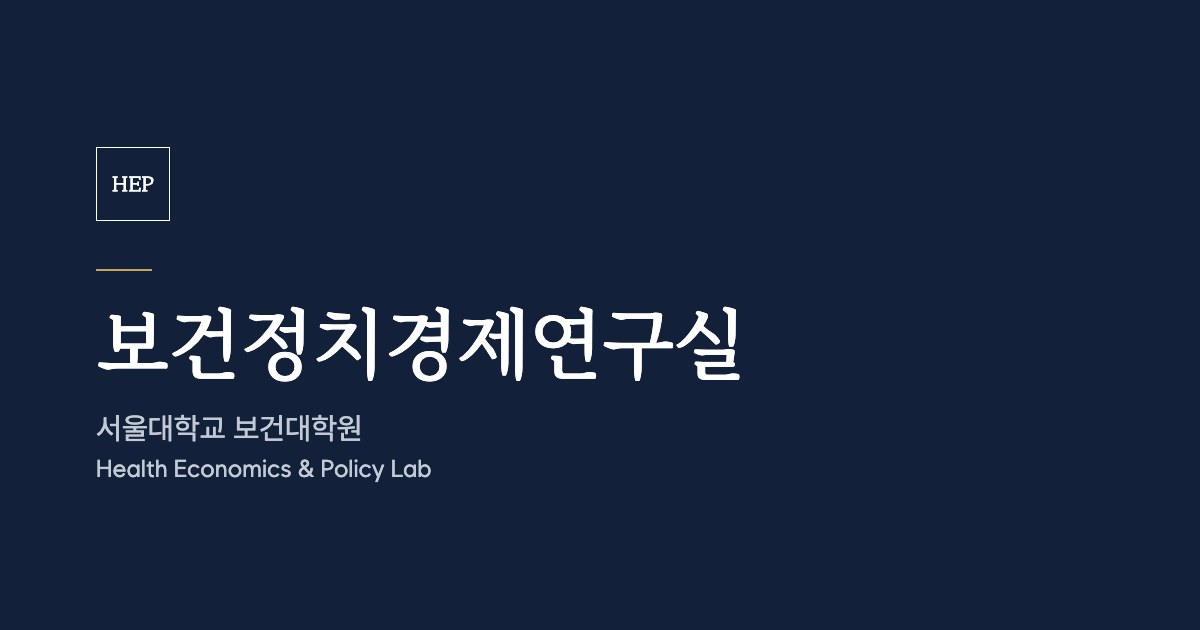
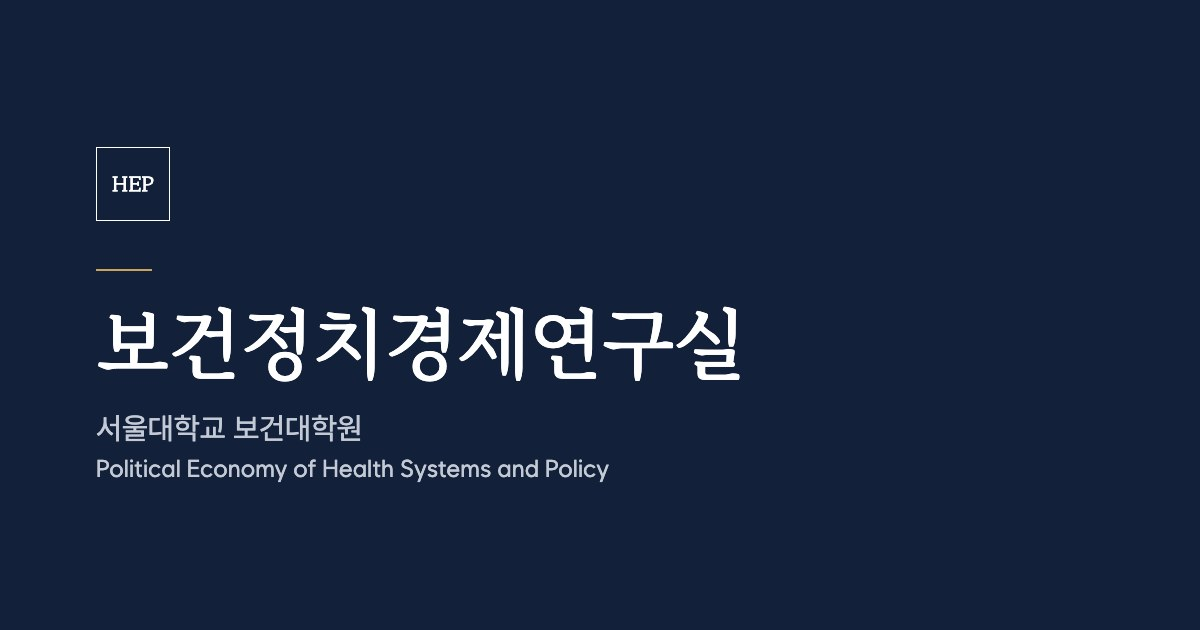
최신 DB(11-18) · 디자인 마감(11-14~19: 4A·5·7) · 옛 4묶음 상단 메뉴 및 EN 제거 반영

Changed region(s): [[0.0617, 0.7238, 0.5242, 0.7841]]

diff --git a/assets/css/site.css b/assets/css/site.css
@@ -118,6 +118,7 @@ time, .num, .cnt, .tbl, .b-meta, .c-meta, .post-meta, .article .meta { font-vari
 .main-inner { padding-bottom: var(--sp-9); }
 .main-inner > .wrap { padding-top: var(--top); }
 .main-inner > .wrap > * { max-width: var(--content-max); }
+.main-inner > .wrap.list:has(.news-list) > .grp { max-width: none; }   /* 소식 목록 오른쪽 끝을 머리 메뉴와 맞춤(2026-11-16 2단계) */
 
 /* ---------------- 첫 화면 사진 슬라이드(교수님이 시안을 고르시기 전이라 V1 값 그대로) */
 .hero { position: relative; height: 780px; color: #fff; overflow: hidden; background: var(--navy-deep); --focus: var(--gold); }
@@ -134,7 +135,7 @@ time, .num, .cnt, .tbl, .b-meta, .c-meta, .post-meta, .article .meta { font-vari
 .kick { font-size: 17px; font-weight: 500; letter-spacing: 0; color: #fff; margin: 0; }
 .hero-h { font-family: var(--display); font-weight: var(--display-weight); font-size: 66px; line-height: 1.25; margin: 18px 0 12px; letter-spacing: -.01em; }
 .hero-p { font-size: 19px; opacity: .92; margin: 0; }
-.hero-s { font-size: 15px; letter-spacing: 0; opacity: .8; margin: 10px 0 0; }
+.hero-s { font-size: 15px; letter-spacing: 0; opacity: .8; margin: 10px 0 0;  text-shadow: 0 1px 3px rgba(0,0,0,.85), 0 0 14px rgba(0,0,0,.55); }   /* 밝은 포장길 위 대비(2026-11-16 2단계) */
 .btn-line { display: inline-flex; gap: 12px; align-items: center; margin-top: 34px; border: 1px solid rgba(255, 255, 255, .7); padding: 13px 26px; font-size: 14px; letter-spacing: 0; }
 .btn-line--latin { letter-spacing: .08em; }   /* 영문 대문자 단추만(LAB INTRODUCTION), 한글 단추는 0 */
 .btn-line:hover { border-color: var(--gold); color: var(--gold-tint-hover); }
@@ -627,7 +628,7 @@ summary:hover .chev, summary:hover .cnt { color: var(--ink); }
   .leaves > li::before { content: ""; position: absolute; left: calc(-1 * var(--gap-r)); top: var(--nm-mid); width: calc(var(--gap-r) - var(--sp-3)); height: 1px; background: var(--line); transform-origin: left; }
   .grp { margin-top: var(--sp-7); }
   .grp-fold + .grp-fold { margin-top: 0; }
-  .t [lang="en"], .pf [lang="en"] { hyphens: auto; }
+  .t [lang="en"] { hyphens: auto; }   /* 관심 분야(.pf)는 낱말 가운데서 끊지 않음(2026-11-16 2단계) */
   .people { grid-template-columns: 1fr; }
   .person { padding: var(--sp-4); gap: var(--sp-4); }
   .person .ph { width: 96px; height: 120px; }
@@ -2409,7 +2410,7 @@ html .g-sent .btn[hidden] { display: none; }
 .bd-count b { color: var(--ink); font-weight: 700; }
 .bd-search { display: flex; align-items: center; gap: var(--sp-2); position: relative; margin: 0; }
 .bd-search > .bd-ic { position: absolute; left: 12px; top: 50%; transform: translateY(-50%); color: var(--sub); pointer-events: none; }
-.bd-search input { width: 320px; height: 44px; padding: 0 12px 0 40px; border: 1px solid var(--field); background: var(--paper); font-size: var(--fs-meta); border-radius: 0; }
+.bd-search input { width: 320px; height: 44px; padding: 0 12px 0 40px; border: 1px solid var(--field); background: var(--paper); font-size: var(--fs-meta); border-radius: 10px; }
 .bd-search input:focus { outline: 2px solid var(--ink); outline-offset: 0; }
 .bd-search input::placeholder { color: var(--sub); }
 .bd-draft { display: flex; flex-wrap: wrap; align-items: baseline; gap: var(--sp-1) var(--sp-3); margin: 0 0 var(--sp-5); padding: var(--sp-3) var(--sp-4); background: var(--tint); font-size: var(--fs-meta); }
@@ -2579,3 +2580,29 @@ a.bd-pg:hover { background: var(--tint); }
   .ev-grid { grid-template-columns: repeat(2, minmax(0, 1fr)); gap: var(--sp-2); }
 }
 @media print { .band--photo { min-height: 0; background: none; } .band--photo .band-sub { color: inherit; } .band--photo .band-bg, .band-search { display: none; } }
+
+/* ---------- 2026-11-19 선택 반영(항목 5 · 항목 7) ---------- */
+/* [항목 5] 내부 본문 4개 화면 구역 가로 구분선 1280px 전체 폭 통일(본문 읽기 폭 36em 유지) */
+.main-inner > .prose > .lead-block,
+.main-inner > .prose > .sec,
+.main-inner > .wrap.list > .grp,
+.main-inner > .wrap.courses { max-width: none; }
+
+/* [항목 7] 내 정보 화살표 · 비활성 단추 명도 대비 보강(AA 4.5:1 이상) */
+.reqcards-arrow,
+.m-way .join-go,
+.m-back-arw { color: var(--gold-deep, #86672f); }
+html .btn[disabled],
+.btn[disabled] { opacity: 1; background: #dfe3eb; color: #464e5d; border-color: #c5ccd8; box-shadow: none; }
+
+/* [항목 7] 모바일 관리 탭 가로 스크롤 + 오른쪽 남색 그라데이션 페이드 */
+@media (max-width: 640px) {
+  .admin-tabs { position: relative; }
+  .admin-tabs ul { flex-wrap: nowrap; overflow-x: auto; padding-right: 40px; scrollbar-width: none; }
+  .admin-tabs ul::-webkit-scrollbar { display: none; }
+  .admin-tabs a { white-space: nowrap; flex: none; }
+  .admin-tabs::after {
+    content: ""; position: absolute; top: 0; right: 0; bottom: 0; width: 44px; pointer-events: none;
+    background: linear-gradient(90deg, rgba(19, 32, 58, 0), rgba(19, 32, 58, .96) 78%);
+  }
+}

diff --git a/assets/js/lab/app.js b/assets/js/lab/app.js
@@ -152,7 +152,7 @@
         // 아이디가 있든 없든 같은 글(10-28 설계서 8절)
         msg.replaceChildren(h('div', { class: 'notice is-error g-err', role: 'alert' },
           h('b', {}, L.errText(err)),
-          h('p', {}, '기존 홈페이지 회원은 예전 아이디 · 비밀번호를 그대로 쓰시면 됩니다. 비밀번호를 잊으셨으면 아래에서 링크를 받으십시오.'),
+          h('p', {}, '기존 홈페이지 회원은 기존 아이디 · 비밀번호를 그대로 쓰시면 됩니다. 비밀번호를 잊으셨으면 아래에서 링크를 받으십시오.'),
           h('div', { class: 'g-acts' },
             who ? h('button', { type: 'button', class: 'btn btn-ghost btn-small', onclick: async function (ev) {
               var b = ev.currentTarget; busy(b, true); var ok = await sendLink(api, who, place); busy(b, false, ok); if (ok) msg.replaceChildren(place);
@@ -167,7 +167,7 @@
     L.append(root, [gatePage([
       h('h2', { class: 'gate-h' }, '로그인'), msg, form,
       // 11-13 연구자: 기존 회원은 재설정 없이 예전 비밀번호 그대로(첫 로그인 때 서버가 새 방식으로 바꿔 저장)
-      h('p', { class: 'g-note' }, '기존 홈페이지 회원은 예전 아이디 · 비밀번호 그대로 로그인합니다.'),
+      h('p', { class: 'g-note' }, '기존 홈페이지 회원은 기존 아이디 · 비밀번호 그대로 로그인합니다.'),
       h('div', { class: 'g-or' }),
       h('div', { class: 'g-row2' },
         linkBtn(JOIN, '회원가입'),

diff --git a/templates/base.html b/templates/base.html
@@ -19,7 +19,7 @@
 <header class="{{ header_class }}">
   <div class="hdr-in">
     <a class="brand" href="{{ home }}">
-      <svg viewBox="0 0 48 48" width="46" height="46" aria-hidden="true"><rect x=".7" y=".7" width="46.6" height="46.6" fill="none" stroke="currentColor" stroke-width="1.2"/><text x="24" y="30.5" text-anchor="middle" font-family="MaruBuri, serif" font-weight="600" font-size="15" letter-spacing="1" fill="currentColor">HEP</text></svg>
+      <svg viewBox="0 0 48 48" width="46" height="46" aria-hidden="true"><rect x="1" y="1" width="46" height="46" fill="none" stroke="#c9a45c" stroke-width="1.4"/><path d="M12 36 V16 L24 10 L36 16 V36" fill="none" stroke="#c9a45c" stroke-width="1.8" stroke-linejoin="miter"/><path d="M18 36 V22 H30 V36" fill="none" stroke="currentColor" stroke-width="1.5"/><line x1="8" y1="36" x2="40" y2="36" stroke="#c9a45c" stroke-width="1.4"/></svg>
       <span><b>{{ brand_name }}</b><small>{{ brand_en }}</small></span>
     </a>
     <button type="button" class="menu-btn" aria-expanded="false" aria-controls="nav-list"><span class="menu-ico" aria-hidden="true"></span><span class="menu-txt">메뉴</span></button>
@@ -39,7 +39,7 @@
   <div class="foot-in">
     <span>{{ foot_name }}</span>
     <span>{{ foot_addr }} {{ foot_mail }}</span>
-    <span class="foot-links"><a href="{{ privacy }}">개인정보 처리방침</a> · © {{ year }}</span>
+    <span class="foot-links">{{ foot_links }}</span>
   </div>
 </footer>
 </body>

diff --git a/build.py b/build.py
@@ -229,9 +229,19 @@ def keywords(text):
     return out
 
 
+def tidy_en_keyword(w):
+    """영문 키워드는 첫 글자만 대문자로 맞춘다(health insurance · Healthcare Finance가 섞여 보이던 것, 2026-11-16 2단계).
+    한글이 섞인 것은 그대로, 두 글자 넘는 대문자 낱말(UHC 같은 약어)은 그대로 둔다. 저장된 글은 바꾸지 않고 보일 때만."""
+    if re.search(r"[가-힣]", w) or not re.search(r"[A-Za-z]", w):
+        return w
+    parts = [x if (len(x) > 1 and x.isupper()) else x.lower() for x in w.split(" ")]
+    s = " ".join(parts)
+    return s[:1].upper() + s[1:]
+
+
 def keyword_list(text):
     """키워드마다 한 덩어리(줄이 바뀌어도 낱말 중간에서 끊기지 않게), 사이는 금색 점(CSS .kws)."""
-    return '<ul class="kws">' + "".join(f"<li>{text_lang(w)}</li>" for w in keywords(text)) + "</ul>"
+    return '<ul class="kws">' + "".join(f"<li>{text_lang(tidy_en_keyword(w))}</li>" for w in keywords(text)) + "</ul>"
 
 
 SAFE_URL = re.compile(r"^(https?://|mailto:|/(?!/)|#)", re.I)
@@ -549,6 +559,21 @@ class Site:
             parts.append("upgrade-insecure-requests")
         return "; ".join(parts)
 
+    def nav_en(self, current):
+        items = [
+            ("About", "/about/"),
+            ("Research", "/research/"),
+            ("People", "/people/"),
+            ("Courses", "/courses/"),
+            ("News", "/news/"),
+            ("KO", "/"),
+        ]
+        out = []
+        for label, href in items:
+            cls = "nav-item nav-en" if label == "KO" else "nav-item"
+            out.append(f'<li class="{cls}"><a href="{esc(self.url(href))}">{esc(label)}</a></li>')
+        return "".join(out)
+
     def nav(self, current):
         tops, children = [], {}
         for item in self.menu:
@@ -570,7 +595,8 @@ class Site:
             if kids:
                 sub = "".join(
                     f'<li><a href="{esc(self.url(k["주소"]))}"'
-                    f'{" aria-current=\"page\"" if current.startswith(k["주소"]) else ""}>{esc(k["이름"])}</a></li>'
+                    f'{" target=\"_blank\" rel=\"noopener noreferrer\"" if k["주소"].startswith("http") else ""}'
+                    f'{" aria-current=\"page\"" if not k["주소"].startswith("http") and current.startswith(k["주소"]) else ""}>{esc(k["이름"])}</a></li>'
                     for k in kids)
                 html_items.append(
                     f'<li class="{" ".join(cls)} has-sub">'
@@ -685,7 +711,7 @@ class Site:
             "home": esc(self.url("/")),
             "brand_name": esc(name),
             "brand_en": esc(self.cfg.get("영문 이름", "")),
-            "nav": self.nav(p["path"]),
+            "nav": self.nav_en(p["path"]) if p["lang"] == "en" else self.nav(p["path"]),
             "header_class": "hdr hdr--over" if p["kind"] == "home" else "hdr hdr--solid",
             "band": band,
             "main_class": "main-home" if p["kind"] == "home" else "main-inner",
@@ -693,11 +719,15 @@ class Site:
             "aff_ko": esc(self.url("/assets/img/logos/gsph_ko.png")),
             "aff_snu": esc(self.url("/assets/img/logos/snu_signature_ko.png")),
             "orgs": "" if p["lab"] else self._orgs(),
-            "foot_name": esc(f'{name} · {self.cfg.get("영문 이름", "")}'),
-            "foot_addr": esc(self.cfg.get("주소", "")),
+            "foot_name": esc(self.cfg.get("영문 이름", "")) if p["lang"] == "en" else esc(f'{name} · {self.cfg.get("영문 이름", "")}'),
+            "foot_addr": esc("Room 426, Bldg 221, Graduate School of Public Health, Seoul National University") if p["lang"] == "en" else esc(self.cfg.get("주소", "")),
             "foot_mail": self._foot_mail(),
             "privacy": esc(self.url("/privacy/")),
             "year": esc(self.cfg.get("저작권 연도", "")),
+            "updated": esc(self._updated()),
+            "foot_links": (f'Last updated {esc(self._updated())} · <a href="{esc(self.url("/privacy/"))}">Privacy Policy</a> · © {esc(self.cfg.get("저작권 연도", ""))}'
+                           if p["lang"] == "en" else
+                           f'마지막 고침 {esc(self._updated())} · <a href="{esc(self.url("/privacy/"))}">개인정보 처리방침</a> · © {esc(self.cfg.get("저작권 연도", ""))}'),
             "data_block": data_block,
             "scripts": script_tags,
             "body_class": "is-lab" if p["lab"] else ("is-home" if p["kind"] == "home" else "is-inner"),
@@ -719,6 +749,13 @@ class Site:
             f'<li><a href="{esc(safe_url(o["주소"]))}" rel="noopener noreferrer">{esc(o["제목"])}</a></li>'
             for o in self.orgs)
         return f'<ul class="aff-links" aria-label="기관 · 관련 사이트">{links}</ul>'
+
+    def _updated(self):
+        """꼬리의 '마지막 고침' 날짜: 내용 표 · 글 파일 중 가장 최근에 고친 날(2026-11-16 2단계, 검수 '마지막 수정 날짜 없음')."""
+        import datetime
+        files = list((ROOT / "data").glob("*.csv")) + list((ROOT / "content").glob("*.md"))
+        t = max((f.stat().st_mtime for f in files), default=0)
+        return datetime.date.fromtimestamp(t).isoformat() if t else ""
 
     def _foot_mail(self):
         m = self.cfg.get("대표 메일", "")
@@ -863,7 +900,7 @@ def build_pages(site):
             return f"교과목 {len(read_table('courses', ['과목 이름']))}개"
         if path == "/alumni/":
             al = read_table("alumni", ["졸업 연도", "이름"])
-            return f"졸업생 {len(al)}명 · {min(a['졸업 연도'][:4] for a in al)}년부터" if al else ""
+            return f"박사 {len(al)}명 · {min(a['졸업 연도'][:4] for a in al)}년부터" if al else ""  # 제목 낱말을 되풀이하지 않음(2026-11-16 2단계)
         row = next((r for r in read_table("pages", ["주소", "제목", "글 파일"]) if r["주소"] == path), None)
         if row:
             return " · ".join(x for x in (row.get("큰 제목") or row["제목"], row.get("작은 제목")) if x)
@@ -935,7 +972,7 @@ def build_pages(site):
             return ""
         span = years[0] if years[0] == years[-1] else f"{years[0]}~{years[-1]}"
         href = url("/research/") + (f'#{a["영문 주소"]}' if a.get("영문 주소") else "")
-        return f'<a class="area-more" href="{esc(href)}">글 {len(years)}편 · {span}년<span aria-hidden="true" class="arw-r"></span></a>'
+        return f'<a class="area-more" href="{esc(href)}">글 {len(years)}편<span aria-hidden="true" class="arw-r"></span></a>'  # 연도는 뺌(옛 연도가 첫 화면에서 '멈춘 사이트'로 읽힘, 2026-11-16)
 
     area_html = "".join(
         f'<div class="area"><h3>{esc(a["이름"])}</h3>'
@@ -990,10 +1027,8 @@ def build_pages(site):
         intro = md(read_text(a["글 파일"])) if a.get("글 파일") else f'<p>{esc(a.get("한 줄", ""))}</p>'
         blocks.append(group(a["이름"], a.get("영문", ""), f'<div class="grp-b">{intro}<div class="news-list">{rows}</div></div>',
                             ident=a.get("영문 주소") or "", note_lang="en"))
-    area_index = [(a.get("영문 주소"), a["이름"], f'{sum(1 for p in posts if p["분야"] == a["이름"])}편')
-                  for a in areas if a.get("영문 주소")]
     site.page("/research/", "연구 분야", f'<div class="wrap list">{"".join(blocks)}</div>',
-              sub="건강보장 · 장기요양 · 국제개발", index=area_index)
+              sub="건강보장 · 장기요양 · 국제개발")
     for p in posts:
         if p.get("글 파일"):
             article_page(site, p, "research", "연구 분야", "/research/")
@@ -1014,9 +1049,8 @@ def build_pages(site):
             groups.append(f'<section class="grp grp-fold" id="y{esc(year)}"><details><summary>'
                           f'<h2 class="num">{esc(year)}</h2><span class="cnt">{count}</span>'
                           f'<span class="chev" aria-hidden="true"></span></summary>{items}</details></section>')
-    year_index = [(f"y{y}", y, f"{len(by_year[y])}건") for y in sorted(by_year, reverse=True)]
     site.page("/research/projects/", "수행연구", f'<div class="wrap list">{"".join(groups)}</div>',
-              index=year_index, art=art_bars([(y, len(by_year[y])) for y in sorted(by_year)]))
+              art=art_bars([(y, len(by_year[y])) for y in sorted(by_year)]))
 
     # ---- 교과목
     courses = read_table("courses", ["과목 이름"])

diff --git a/tests/test_boards.py b/tests/test_boards.py
@@ -103,13 +103,11 @@ class BoardMenuTest(unittest.TestCase):
         site = build.Site(local=True)
         names = [(m["이름"], m["주소"], m.get("위", "")) for m in site.menu]
         top = [n for n in names if not n[2]]
-        self.assertIn(("게시판", "/board/seminar/", ""), top)
-        self.assertLess([t[0] for t in top].index("소식"), [t[0] for t in top].index("게시판"))
-        self.assertEqual([n[0] for n in names if n[2] == "게시판"], [b["name"] for b in build.read_boards()])
+        self.assertEqual([t[0] for t in top], ["연구실", "수행연구와 세미나", "연구활동", "커뮤니티", "Login", "Join"])
         nav = site.nav("/board/free/")
-        self.assertIn('<a href="/board/seminar/" aria-current="page">게시판</a>', nav)
+        self.assertIn('<a href="/news/" aria-current="page">커뮤니티</a>', nav)
         self.assertIn('<a href="/board/free/" aria-current="page">자유게시판</a>', nav)
-        self.assertNotIn('<a href="/lab/" aria-current="page">회원</a>', nav)
+        self.assertNotIn('>EN<', nav)
 
     def test_groups_split_menu(self):
         menu = [{"이름": "연구실", "주소": "/about/", "위": ""}, {"이름": "x", "주소": "@게시판", "위": ""},

diff --git a/tests/test_band.py b/tests/test_band.py
@@ -19,7 +19,7 @@ class BandTest(unittest.TestCase):
 
     def test_band_index_points_to_real_sections(self):
         # 제목 띠 '이 화면 바로가기'의 #주소는 본문에 실제로 있어야 한다
-        for path in ("/research/", "/research/projects/", "/people/", "/news/"):
+        for path in ("/people/", "/news/"):
             h = self.html[path]
             nav = re.search(r'<nav class="band-index".*?</nav>', h, re.S)
             self.assertIsNotNone(nav, path)

diff --git a/content/en.md b/content/en.md
@@ -1,6 +1,8 @@
-<!-- 영어 한 쪽. 연구실 소개 첫 문단은 국문 소개를 옮긴 초안(확인 필요). 교수 소개는 옛 사이트 영문 그대로. -->
+<!-- 영어 한 쪽. 연구실 소개 첫 문단은 국문 소개를 옮긴 초안(확인 필요). 영문 이름은 옛 사이트 연구실 소개의 표기 그대로(2026-11-14 연구자). 교수 소개는 옛 사이트 영문 그대로. -->
 
-The Political Economy of Health Systems and Policy Lab at the Seoul National University Graduate School of Public Health studies health care systems and health policy using the perspectives and methods of economics and political science.
+## Overview
+
+Political Economy of Health Systems and Policy is a research lab at the Seoul National University Graduate School of Public Health. We study health care systems and health policy using the perspectives and methods of economics and political science.
 
 Research topics include health care financing (health insurance), health care delivery (provider payment, physician and hospital behavior), pharmaceuticals and the health industry, population aging and long-term care insurance, equity in financing, utilization and health, and comparative studies of health systems and policies in high-, middle- and low-income countries.
 
